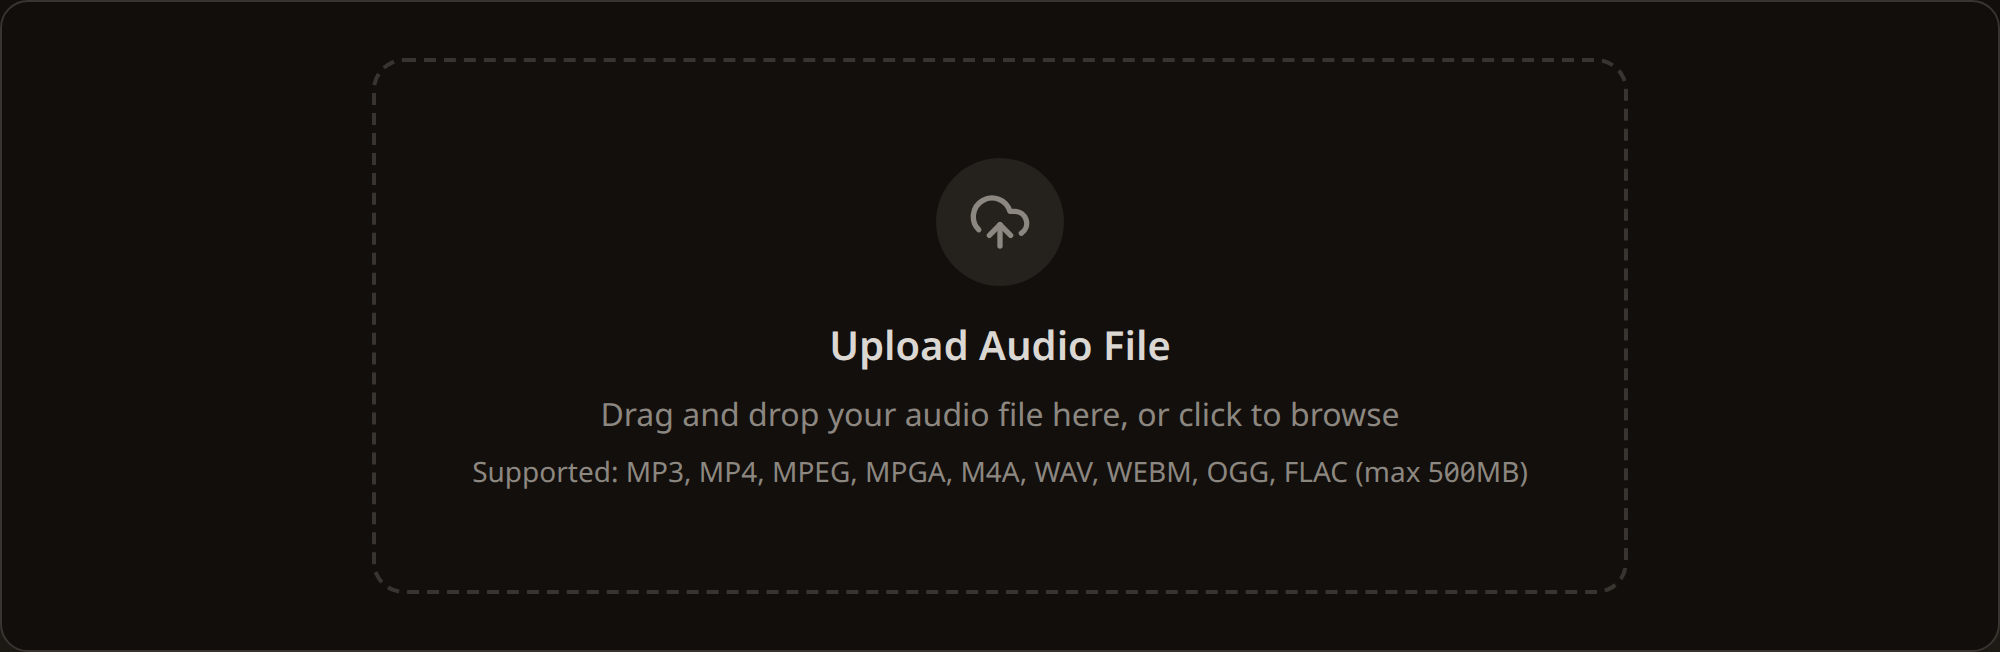
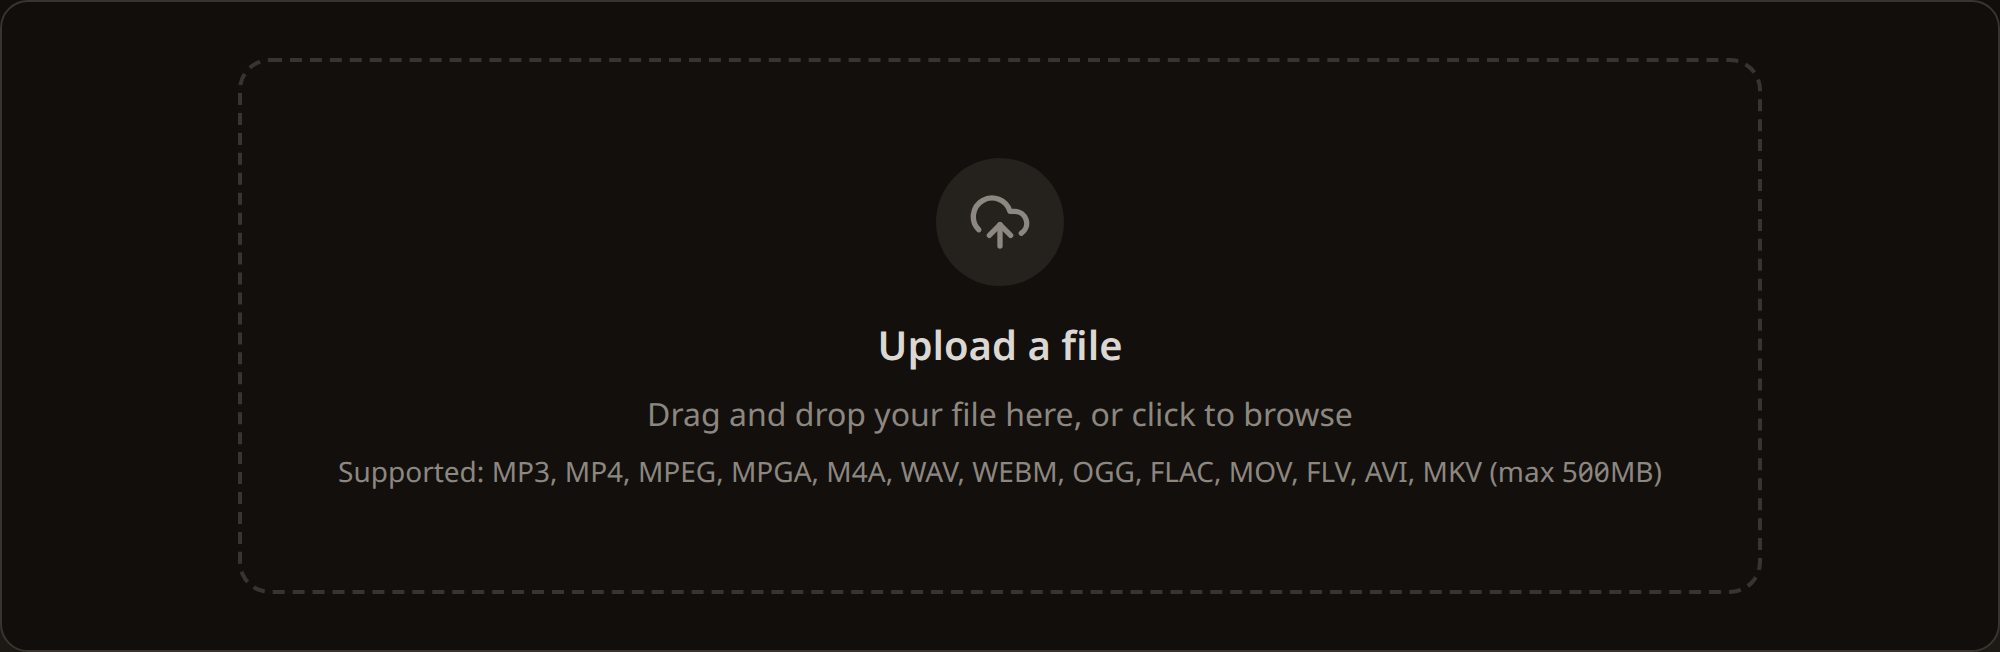
capture(uploader-empty): re-shoot after the Audio -> Upload tab rename
The 2026-08-03 uploader-empty still showed "Upload Audio File" and only 9
formats. The live dropzone copy is now "Upload a file" / "Drag and drop your
file here" / all 13 formats (MOV/FLV/AVI/MKV included), so the old shot was
misleading for video. Re-shot against app.indxr.ai in both themes.

Its only use is /docs/guides/uploads, whose alt/caption were already generic
("drag a file"), so nothing else was misleading. Also fixes a now-stale code
comment in the video-upload-mp4 test.

diff --git a/tests/playwright/capture/quickstart-capture.spec.ts b/tests/playwright/capture/quickstart-capture.spec.ts
@@ -192,7 +192,7 @@ test('video-upload-mp4', async ({ page }) => {
   await prep(page)
   await page.goto('/dashboard/transcribe?mode=audio')
   await page.setInputFiles('input[type=file]', VIDEO_FILE)
-  // File-added state: the filename heading replaces the empty "Upload Audio File" prompt.
+  // File-added state: the filename heading replaces the empty "Upload a file" prompt.
   await page.getByRole('heading', { name: /Chappelle/ }).waitFor({ state: 'visible', timeout: 20_000 })
   // Frame the whole workbench card: Video/Playlist/Audio strip + the filled (green) dropzone + cost.
   const card = page.getByRole('tablist').locator('xpath=ancestor::div[contains(@class,"rounded-xl")][1]')

diff --git a/docs/LOG.md b/docs/LOG.md
@@ -1036,3 +1036,4 @@ Co-Authored-By: Claude Sonnet 5 <noreply@anthropic.com>
 ---
 [2026-08-13 11:20] taak: uploadtabblad hernoemd "Audio" → "Upload" (alleen zichtbare tekst; sinds ADR-097 accepteert het 13 formaten waarvan 7 video, dus "Audio" was feitelijk onjuist en het staat naast bron-tabs Video/Playlist). **Zichtbaar gewijzigd:** tab-label (ModeStrip MODES); uploadvak (AudioTab: "Upload Audio File"→"Upload a file", "your audio file here"→"your file here", "Audio transcription in progress"→"Transcription in progress", "Reading audio duration"→"Reading duration", sign-in "to use audio transcription"→"to transcribe your files"); FrictionConversionCard-kop "Audio file transcription"→"File transcription"; PlaylistManager knoppen+proza ("Audio Upload"→"Upload", "Try Audio Upload →"→"Try Upload →", "via our Audio Upload tab"→"via our Upload tab"); errorCopy foutmeldingen ("...or use Audio Upload."→"...use Upload.", actieknop "Use Audio Upload"→"Use Upload"); pricing-FAQ ("Audio Upload accepts"→"The Upload tab accepts"); quickstart (zichtbare tab-lijst + JSON-LD text "Audio"→"Upload"); artikelen die naar het tabblad verwijzen (not-available 6×, non-english 1×, export-formats 2×: "Audio Upload tab/tool/…"→"Upload tab/tool/…"); uploads-docs figuur-alt "audio uploader"→"file uploader". App én marketing delen ModeStrip/AudioTab/PlaylistManager/errorCopy → één wijziging dekt beide hosts. **Test die op oude tekst leunde:** quickstart-capture.spec.ts:135 selector "Drag and drop your audio file here"→"…your file here" (anders faalt de capture-spec; klikt niet op tabnaam maar op ?mode=audio URL-param, ongewijzigd). **INTERN ONGEWIJZIGD (divergeert bewust van wat de user ziet):** mode-value + URL-param `audio`, prop `onSwitchToAudio`, component `AudioTab`, type `TranscribeMode='audio'`, `AudioModeIcon` (icoon toont nog een audio-golfvorm — visueel, geen tekst), DB `source_type`/`source_kind='upload'`; AudioTab fallback-titel `'Audio Upload'` (AudioTab.tsx:56/118, alleen zichtbaar als een geresumede job géén filename heeft — edge case); admin/operations Stat-label "Audio upload" + tooltip (admin-only metriek voor de upload-job-soort, niet het tabblad). **STALE:** screenshot `uploader-empty-{light,dark}.png` toont nog "Upload Audio File" → opnieuw schieten na deploy (aparte capture-run tegen app.indxr.ai). Build 2/2 groen. | gewijzigd: packages/shared/src/components/{transcribe/ModeStrip.tsx,transcribe/errorCopy.ts,free-tool/AudioTab.tsx,PlaylistManager.tsx}, apps/marketing/src/app/{transcribe,pricing,docs/quickstart,docs/guides/uploads,articles/youtube-transcript-not-available,articles/transcript-export-formats,articles/youtube-transcript-non-english}/page.tsx, tests/playwright/capture/quickstart-capture.spec.ts
 [2026-08-13 02:00] taak: vier video-specifieke opnames voor /articles/video-to-text via de opnamemachine + echte transcriptie. Testvideo `docs/wiki/testing/What Brought Dave Chappelle Back - PowerfulJRE (360p).mp4` (319s, 7,39MB, h264+aac) door het live product als account1 getranscribeerd (Upload-tab): job c9137c1b, transcript 31a38dee, 6 credits, model universal-3-5-pro, **2 sprekers A/B**, compress_ms NULL (MP4<25MB → rauw naar AssemblyAI), transcribe_ms 18704, RTF 0,0596, transcript_confidence 0,965, language_confidence 0,999, cost_eur €0,0188 — **eerste meetlaag-rij (ADR-096) voor een geüpload videobestand**. Vier capture-tests toegevoegd aan `quickstart-capture.spec.ts` (bundled chromium volstaat: leest MP4-duur via blob-URL — chrome-channel niet nodig; file:// faalde alleen door bron-restrictie): `video-upload-mp4` (Upload-tab met MP4 toegevoegd → groen geaccepteerd + tab-strip Video/Playlist/**Upload**), `video-cost-card` (bestandsnaam·~5min·AI·Total 6 credits vóór start), `video-transcript-speakers` (echt transcript, Speaker A/B + tijdstempels, hoogte geclipt), `video-subtitles-srt` (het **echte** geëxporteerde .srt-resultaat i.p.v. het te hoge/smalle menu — genummerde cues, HH:MM:SS,mmm, in-budget Speaker A:-prefix). #1/#2 zetten de repo-MP4 client-side (geen credits, reproduceerbaar); #3/#4 lezen de geseede transcriptie. Alle 8 PNG's licht+donker geverifieerd. Doc `screenshot-machine.md`: Video-to-text-seed-noot (transcript mag NIET worden opgeruimd), 4 assets in LIVE-tabel, telling 11→15 onderwerpen. Test-MP4 meegecommit (client-side captures anders niet herdraaibaar). | gewijzigd: tests/playwright/capture/quickstart-capture.spec.ts, apps/marketing/public/docs/screenshots/video-*.png (8), docs/wiki/content/screenshot-machine.md, docs/wiki/testing/*.mp4, docs/LOG.md
+[2026-08-13 02:20] taak: uploader-empty opnieuw geschoten na tab-hernoeming Audio→Upload. De oude opname (2026-08-03) toonde "Upload Audio File" + 9 formaten; de live dropzone-copy is inmiddels "Upload a file" / "Drag and drop your file here" / 13 formaten (AudioTab bijgewerkt + gedeployed door de tweede sessie). Re-shoot tegen app.indxr.ai → uploader-empty-{light,dark}.png geactualiseerd (video-inclusief, MOV/FLV/AVI/MKV nu zichtbaar). Gebruik gecontroleerd: enige plek is /docs/guides/uploads (alt+caption al generiek "drag a file" — niet misleidend); geen andere "Upload Audio File"/"your audio file"-tekst in content (enige grep-treffer gaat over YouTube-creators). Kleine comment-fix in de video-upload-mp4-test ("Upload Audio File"→"Upload a file"). | gewijzigd: apps/marketing/public/docs/screenshots/uploader-empty-{light,dark}.png, tests/playwright/capture/quickstart-capture.spec.ts, docs/LOG.md
